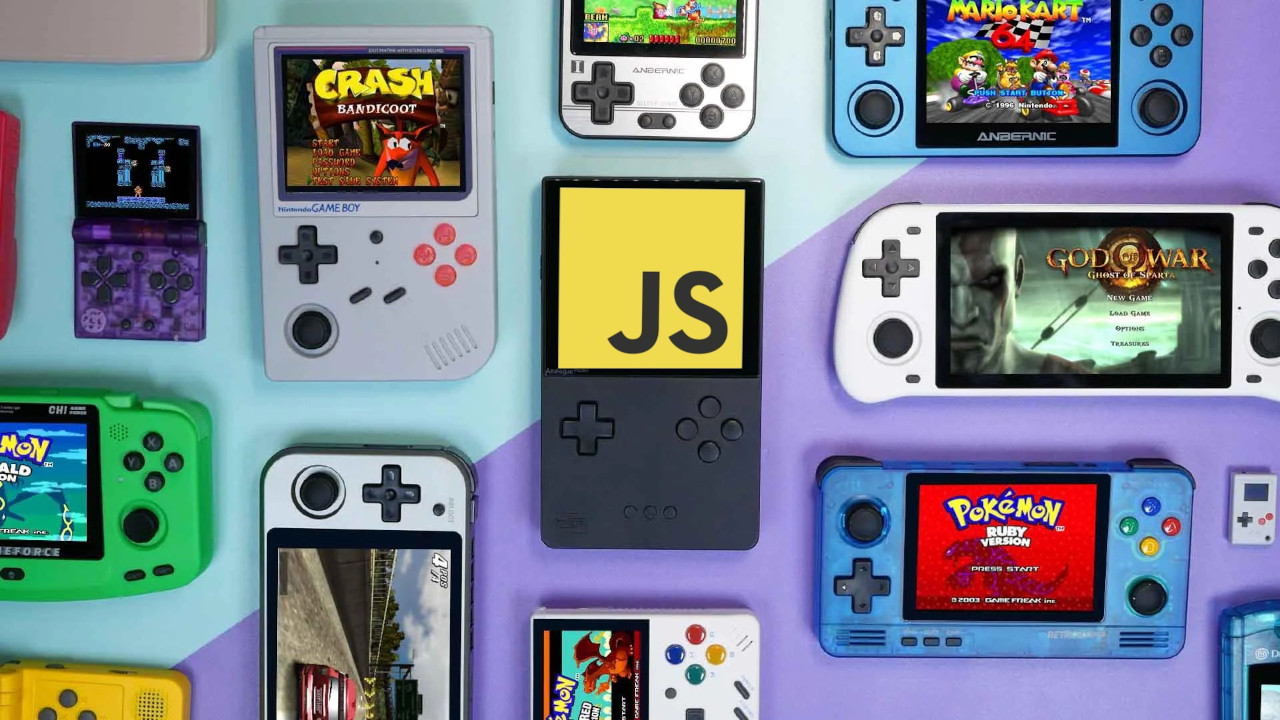
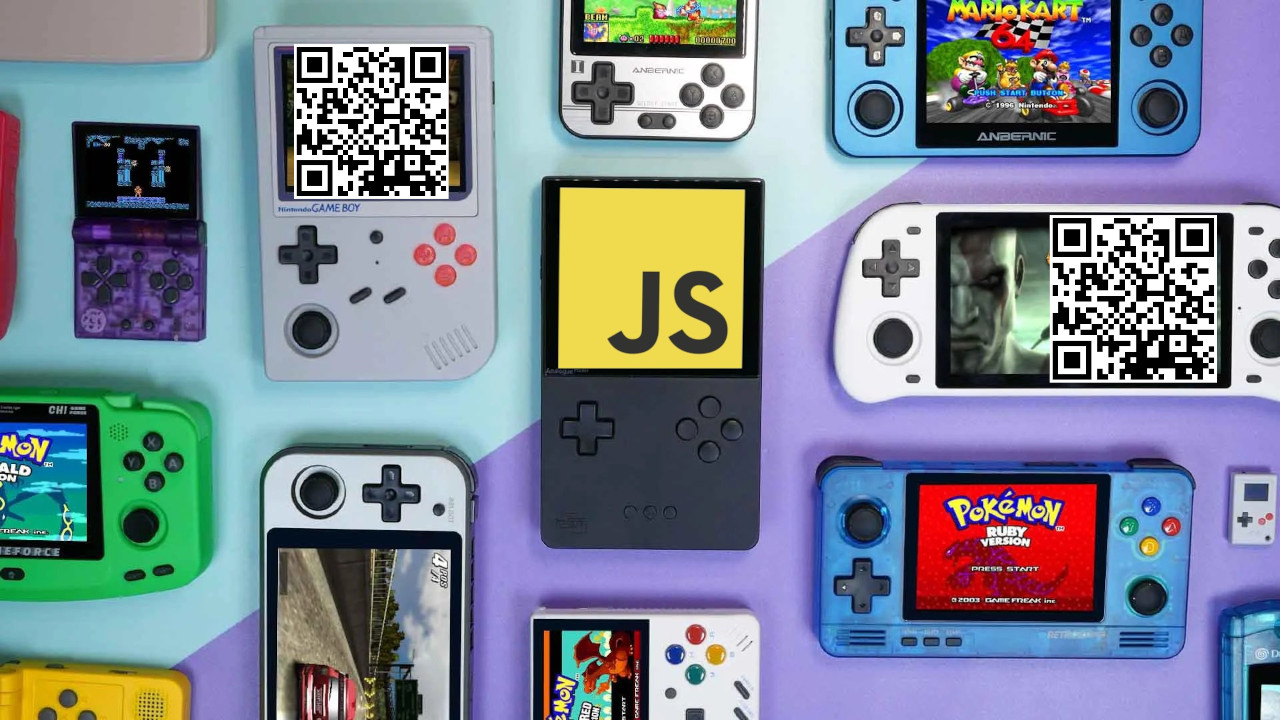
minor slide changes, remove the footer, add qrcode image

Changed region(s): [[0.8125, 0.275, 0.9688, 0.55], [0.2188, 0.0611, 0.375, 0.275]]

diff --git a/src/main.js b/src/main.js
@@ -31,7 +31,7 @@ const settings = {
   throttleFPS: true, // Limit FPS for better performance
   targetFPS: 30,
   useImageSmoothing: false, // Disable image smoothing for better performance
-  showSlideCounter: true, // Show slide counter in bottom right
+  showFooter: false, // Show slide counter in bottom right
   bulletFontSize: height * 0.05 // Configurable bullet point size (was 0.04)
 };
 
@@ -119,14 +119,16 @@ function renderSlide(slide, targetCtx) {
   targetCtx.fillStyle = styles.background;
   targetCtx.fillRect(0, 0, width, height);
   
-  // Draw version number in bottom-left corner with improved contrast
-  targetCtx.fillStyle = 'rgba(255, 255, 255, 0.7)';
-  targetCtx.font = '20px Roboto';
-  targetCtx.textAlign = 'left';
-  targetCtx.fillText(`v${VERSION}`, 10, height - 10);
 
   // Draw slide counter in bottom-right if enabled
-  if (settings.showSlideCounter) {
+  if (settings.showFooter) {
+
+    // Draw version number in bottom-left corner with improved contrast
+    targetCtx.fillStyle = 'rgba(255, 255, 255, 0.7)';
+    targetCtx.font = '20px Roboto';
+    targetCtx.textAlign = 'left';
+    targetCtx.fillText(`v${VERSION}`, 10, height - 10);
+
     targetCtx.textAlign = 'right';
     targetCtx.fillText(`${currentSlide + 1}/${slides.length}`, width - 10, height - 10);
   }

diff --git a/decks/default/slides.js b/decks/default/slides.js
@@ -49,11 +49,7 @@ export const slides = [
 
   {
     title: "I want to make my own ROMs",
-    bullets: [
-      "Atari 2600 ?",
-      "6502 Assembly from 1975",
-      "128 bytes of RAM 😬",
-    ],
+    bullets: ["Atari 2600 ?", "6502 Assembly from 1975", "128 bytes of RAM 😬"],
   },
 
   {
@@ -69,7 +65,7 @@ export const slides = [
       "FullScreen Canvas",
       "WebAudio",
       "Gamepad API",
-      "All the cool web APIs!"
+      "All the cool web APIs!",
     ],
   },
 
@@ -123,10 +119,8 @@ export const slides = [
     ],
   },
   {
-    title: "Sr. Prinicipal Architect Lead :",
-    bullets: [
-      "\"Just build your own browser-less browser!\"",
-    ],
+    title: "Sr. Prinicipal Architect Lead IV",
+    bullets: ['"Just build your own browser-less browser!"'],
   },
   {
     title: "Start with libSDL",
@@ -189,7 +183,7 @@ export const slides = [
       "🙂 FontFace shim",
       "💾 localStorage shim",
       "⚡ WebSocket shim",
-      "\"Shimmy Shimmy Ya\" -O.D.B.",
+      '"Shimmy Shimmy Ya" -O.D.B.',
     ],
   },
   {
